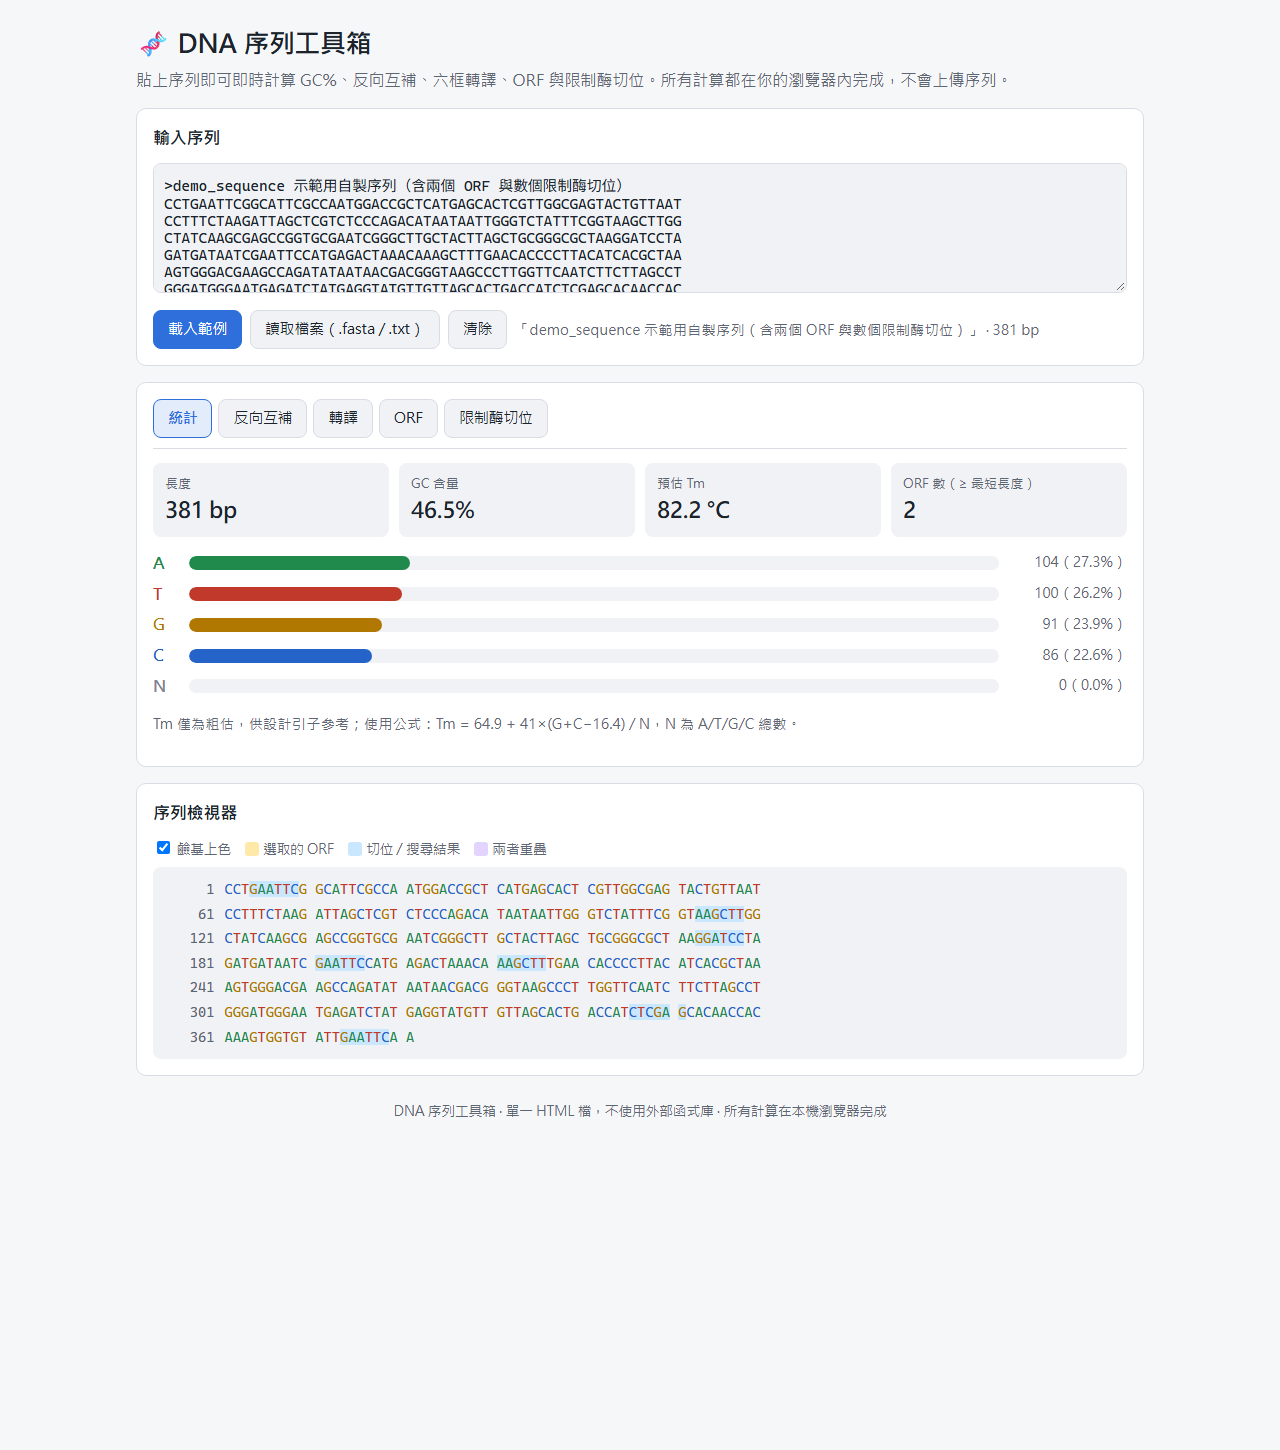
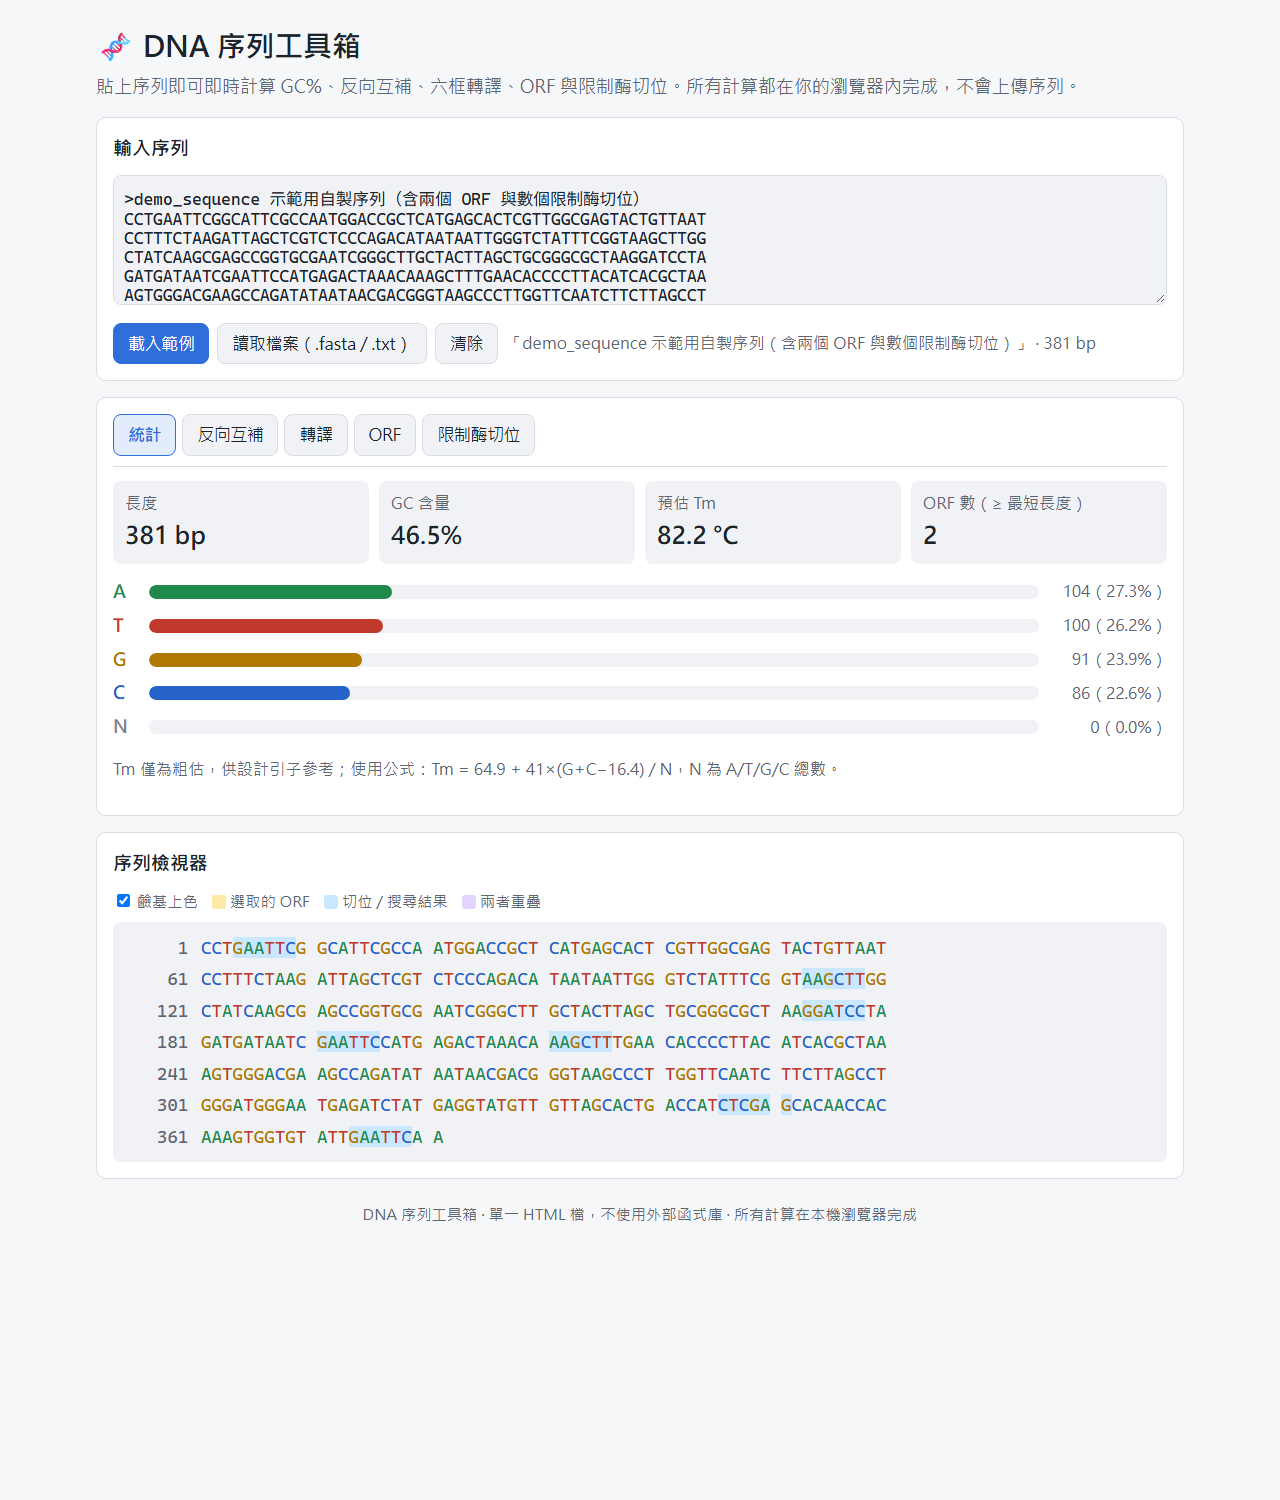
依使用者回饋放大字級；修正手機版表格欄位斷行

diff --git a/index.html b/index.html
@@ -74,6 +74,7 @@
     --hl-both: #3d2c66;
   }
   * { box-sizing: border-box; }
+  html { font-size: 18px; }
   body {
     margin: 0;
     background: var(--bg);
@@ -81,7 +82,7 @@
     font-family: system-ui, -apple-system, "Segoe UI", "Noto Sans TC", "Microsoft JhengHei", sans-serif;
     line-height: 1.55;
   }
-  .wrap { max-width: 1040px; margin: 0 auto; padding: 24px 16px 48px; }
+  .wrap { max-width: 1120px; margin: 0 auto; padding: 24px 16px 48px; }
   header h1 { font-size: 1.6rem; margin: 0 0 4px; }
   header p { margin: 0; color: var(--muted); }
   .card {
@@ -134,7 +135,7 @@
   .panel[hidden] { display: none; }
   .stats { display: grid; grid-template-columns: repeat(auto-fit, minmax(150px, 1fr)); gap: 10px; }
   .stat { background: var(--surface-2); border-radius: 8px; padding: 10px 12px; }
-  .stat .label { font-size: 0.82rem; color: var(--muted); }
+  .stat .label { font-size: 0.9rem; color: var(--muted); }
   .stat .value { font-size: 1.35rem; font-weight: 650; font-variant-numeric: tabular-nums; }
   .bars { margin-top: 14px; display: grid; gap: 6px; }
   .bar-row { display: grid; grid-template-columns: 28px 1fr 120px; align-items: center; gap: 8px; font-variant-numeric: tabular-nums; }
@@ -147,7 +148,7 @@
   pre.seq {
     margin: 0;
     font-family: var(--mono);
-    font-size: 0.88rem;
+    font-size: 0.95rem;
     background: var(--surface-2);
     border-radius: 8px;
     padding: 10px;
@@ -160,9 +161,10 @@
   .frame-pick button[aria-pressed="true"] { background: var(--accent-soft); border-color: var(--accent); color: var(--accent); font-weight: 600; }
   table { width: 100%; border-collapse: collapse; font-size: 0.9rem; }
   th, td { text-align: left; padding: 7px 8px; border-bottom: 1px solid var(--border); }
-  th { color: var(--muted); font-weight: 600; font-size: 0.82rem; }
+  th, td.num, td.nowrap { white-space: nowrap; }
+  th { color: var(--muted); font-weight: 600; font-size: 0.9rem; }
   td.num { font-variant-numeric: tabular-nums; }
-  td.mono { font-family: var(--mono); font-size: 0.82rem; word-break: break-all; }
+  td.mono { font-family: var(--mono); font-size: 0.9rem; word-break: break-all; }
   tbody tr.clickable { cursor: pointer; }
   tbody tr.clickable:hover { background: var(--surface-2); }
   tbody tr.selected { background: var(--accent-soft); }
@@ -171,10 +173,10 @@
   .slider input { width: 220px; max-width: 100%; }
   .enzymes { display: flex; flex-wrap: wrap; gap: 8px 14px; margin-bottom: 12px; }
   .enzymes label { font-size: 0.9rem; white-space: nowrap; }
-  .enzymes code, .mono-inline { font-family: var(--mono); font-size: 0.82rem; color: var(--muted); }
+  .enzymes code, .mono-inline { font-family: var(--mono); font-size: 0.9rem; color: var(--muted); }
   .viewer {
     font-family: var(--mono);
-    font-size: 0.88rem;
+    font-size: 1rem;
     line-height: 1.75;
     background: var(--surface-2);
     border-radius: 8px;
@@ -205,9 +207,11 @@
   .toast.show { opacity: 1; }
   footer { margin-top: 24px; color: var(--muted); font-size: 0.85rem; text-align: center; }
   @media (max-width: 600px) {
+    html { font-size: 17px; }
     header h1 { font-size: 1.35rem; }
     .bar-row { grid-template-columns: 24px 1fr 96px; }
-    .viewer { font-size: 0.8rem; }
+    .viewer { font-size: 0.9rem; }
+    th, td { padding: 7px 6px; }
     .vpos { min-width: 5ch; margin-right: .8ch; }
   }
 </style>
@@ -564,7 +568,7 @@ if (typeof module !== 'undefined') module.exports = DNA;
     if (!state.seq) { body.innerHTML = `<tr><td colspan="6" class="empty">尚未輸入序列。</td></tr>`; return; }
     if (!state.orfs.length) { body.innerHTML = `<tr><td colspan="6" class="empty">沒有長度 ≥ ${minAA} aa 的 ORF，可以把最短長度調低試試。</td></tr>`; return; }
     body.innerHTML = state.orfs.map((o, i) => `<tr class="clickable${state.selectedOrf && sameOrf(o, state.selectedOrf) ? ' selected' : ''}" data-i="${i}" tabindex="0">
-      <td class="num">${i + 1}</td><td>${frameLabel(o.frame)}</td><td class="num">${o.from.toLocaleString()}</td>
+      <td class="num">${i + 1}</td><td class="nowrap">${frameLabel(o.frame)}</td><td class="num">${o.from.toLocaleString()}</td>
       <td class="num">${o.to.toLocaleString()}</td><td class="num">${o.aaLen} aa</td>
       <td class="mono">${o.protein.slice(0, 20)}${o.protein.length > 20 ? '…' : ''}</td></tr>`).join('');
   }

diff --git a/README.md b/README.md
@@ -99,6 +99,8 @@
 | 測試 1 | 用 node 跑 24 項自動化測試（FASTA／RNA／不合法字元清理、反向互補、密碼子表、六框轉譯、ORF 座標、雙股 motif、10 kb 效能），並用另一套寫法不同的 Python 程式交叉比對範例序列的結果 | 全部通過 | — |
 | 測試 2 | 用無頭 Chrome 實際開啟網頁、自動點擊按鈕 | **網頁完全沒有反應**：範例序列字串裡夾了真正的換行字元，造成 JavaScript 語法錯誤，整個介面程式沒有執行。單獨測核心函式時抓不到這個錯 | 把換行改成 `\n` 跳脫字元；之後每次修改都重新在瀏覽器中檢查有無錯誤 |
 | 測試 3 | 檢查手機寬度（375 px）的版面 | 整頁沒有溢出，但**序列檢視器固定每行 60 bp，手機上要左右滑動**才能看完一行，ORF 標示也不容易看 | 改成依畫面寬度自動決定每行 bp 數（10 的倍數，最多 60）；手機上每行 20 bp，視窗縮放時自動重排 |
+| 使用者回饋 | 我實際操作上線的網頁後，覺得**文字太小**，請 AI 放大 | 序列和表格是等寬字，在筆電上看久了吃力 | 全站基準字級從 16 px 提高到 18 px（手機 17 px），序列檢視器與輸出區的字也放大；版面寬度從 1040 px 加到 1120 px |
+| 測試 4 | 放大字後重新檢查手機版 | 字變大後，手機上 ORF 表格的欄位被擠成一字一行（「讀碼框」變成三行、「46 aa」斷行） | 表頭、數字欄、讀碼框欄設為不換行，表格在小螢幕上可左右滑動 |
 | 驗收 | 重新跑全部測試與瀏覽器檢查：ORF 標示 141 bp（第 32–172 位）、限制酶切位數量與 Python 參考實作一致、無 JavaScript 錯誤 | — | — |
 
 ## 9. 規格與實作對照
@@ -114,4 +116,5 @@
 | 8 種限制酶勾選、自訂 motif 雙股搜尋 | ✅ 正股以 (+)、反股以 (−)、迴文序列不加註 |
 | 序列檢視器：位置編號、10 bp 分組、上色開關、ORF／切位標示、滑鼠提示酶名稱 | ✅ 每行 bp 數改為依螢幕寬度自動調整（規格原訂 60 bp） |
 | 手機版、深色模式、不送出網路請求 | ✅ |
+| （使用者回饋新增）較大的字級 | ✅ 18 px 基準字級 |
 | 10 kb 在 1 秒內完成 | ✅（核心計算測試） |
